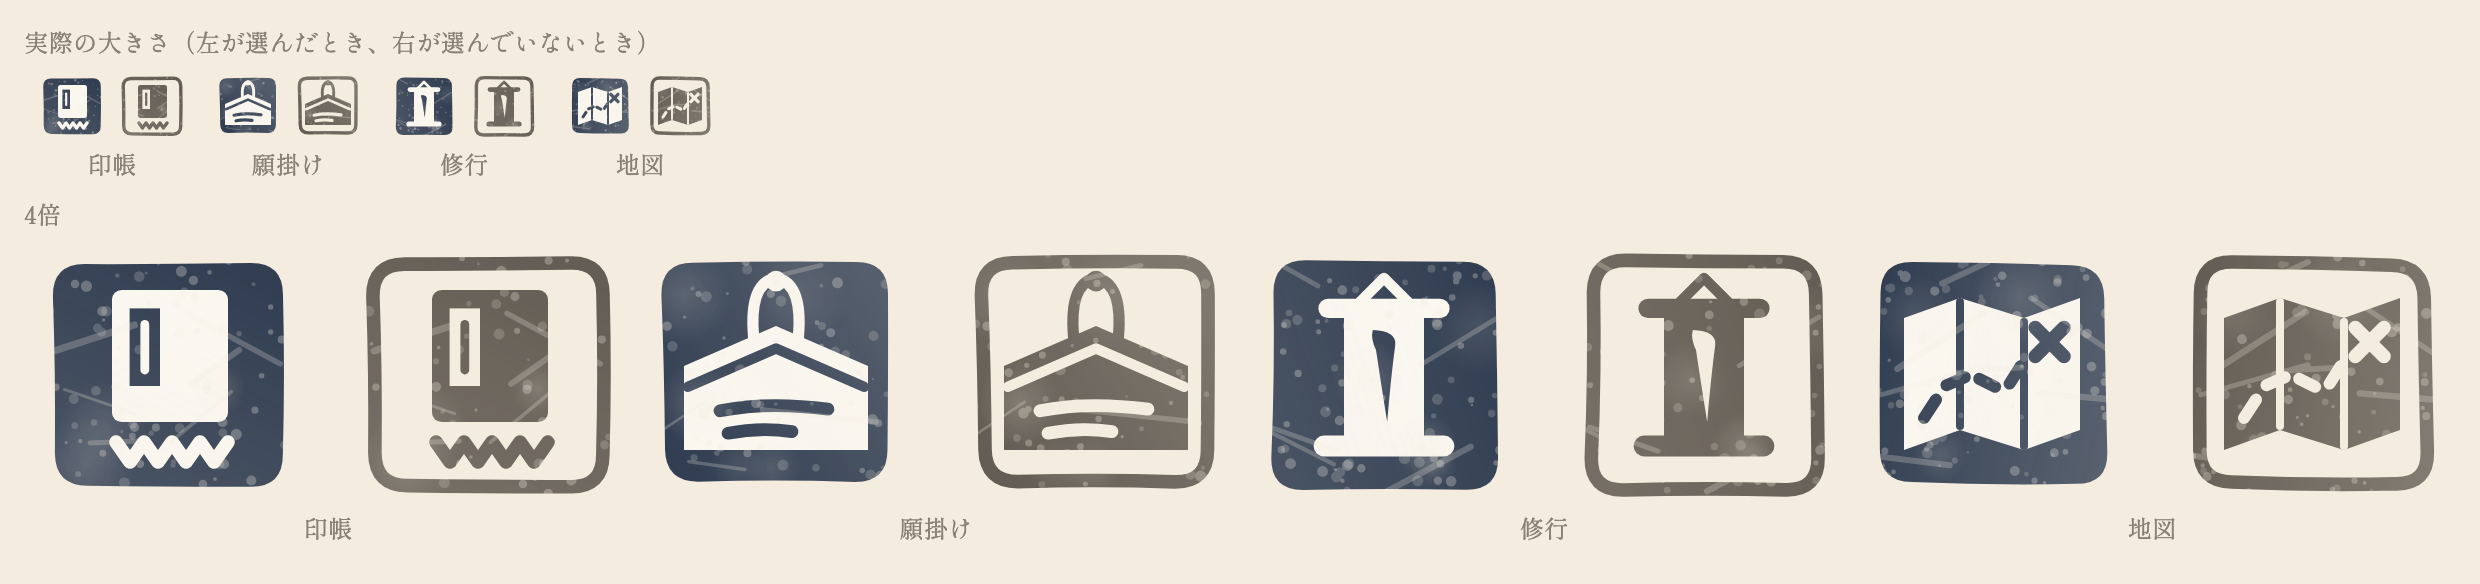
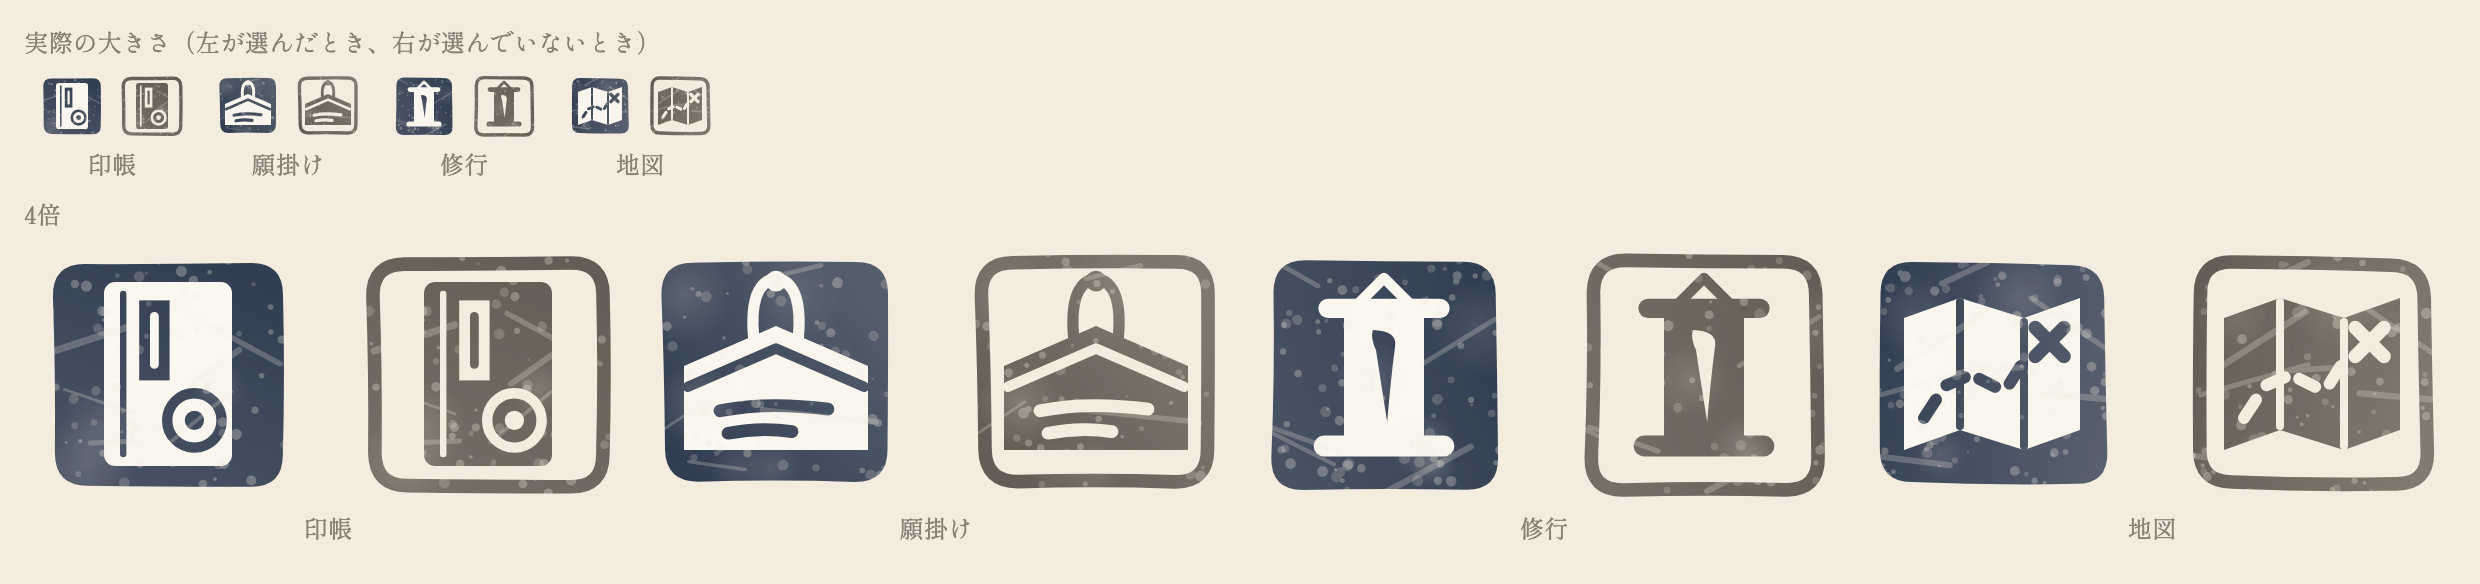
印帳のタブの絵を、題箋と丸い印を押した御朱印帳にする

Changed region(s): [[0.1552, 0.4623, 0.2484, 0.8014], [0.031, 0.4623, 0.0931, 0.8014], [0.0, 0.1541, 0.0931, 0.2158]]

diff --git a/lib/features/home/tab_seals.dart b/lib/features/home/tab_seals.dart
@@ -125,26 +125,26 @@ class _TabSealPainter extends CustomPainter {
     return path..close();
   }
 
-  /// 御朱印帳: 閉じた表紙に題箋、下に蛇腹に折った頁の端がのぞく。
+  /// 御朱印帳: 閉じた表紙の左上に題箋、右下に丸い印を1つ押す。
   void _book(Canvas canvas) {
-    final cover = RRect.fromLTRBR(9, 5.5, 23.5, 22, const Radius.circular(1.2));
+    final cover = RRect.fromLTRBR(8, 4.5, 24, 27.5, const Radius.circular(1.4));
     canvas.drawRRect(cover, _fill);
-    // 題箋（縦長の札）を抜き、中に1画を残す。
-    canvas.drawRect(const Rect.fromLTRB(11.2, 7.8, 15, 17.5), _clear);
+    // 綴じ側の細い筋。
     canvas.drawLine(
-      const Offset(13.1, 9.8),
-      const Offset(13.1, 15.5),
+      const Offset(10.4, 6),
+      const Offset(10.4, 26),
+      _clearLine(0.8),
+    );
+    // 題箋（縦長の札）を抜き、中に1画を残す。
+    canvas.drawRect(const Rect.fromLTRB(12.4, 6.8, 16.2, 16.8), _clear);
+    canvas.drawLine(
+      const Offset(14.3, 8.8),
+      const Offset(14.3, 14.8),
       _line(1.1),
     );
-    // 蛇腹の頁（ジグザグ）。
-    final pleats = Path()..moveTo(9.5, 24.5);
-    for (var i = 0; i < 4; i++) {
-      final x = 9.5 + i * 3.5;
-      pleats
-        ..lineTo(x + 1.75, 27)
-        ..lineTo(x + 3.5, 24.5);
-    }
-    canvas.drawPath(pleats, _line(1.7));
+    // 押した印（輪を抜き、真ん中に点を残す）。
+    canvas.drawCircle(const Offset(19.3, 21.8), 3.4, _clearLine(1.3));
+    canvas.drawCircle(const Offset(19.3, 21.8), 1.2, _clear);
   }
 
   /// 絵馬: 浅い屋根の五角形の板に屋根の段、上に紐を掛け、願いを筆で2行。
